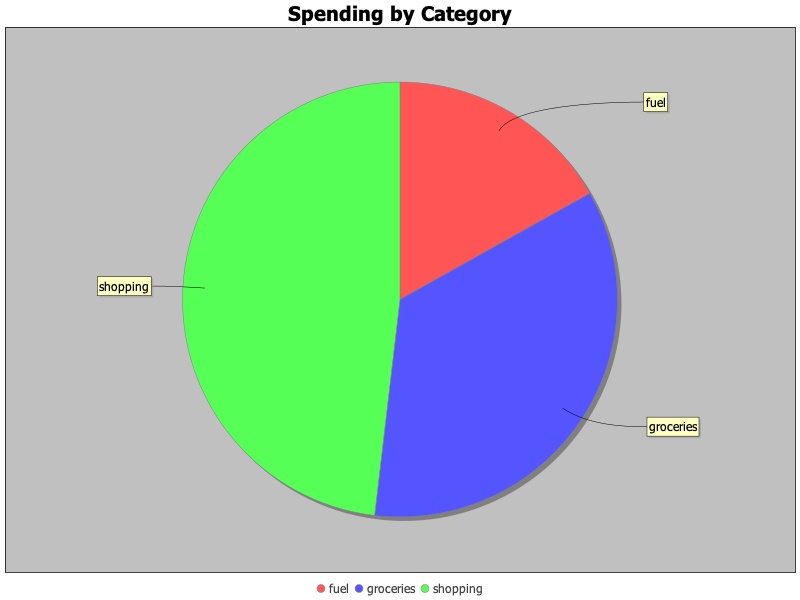
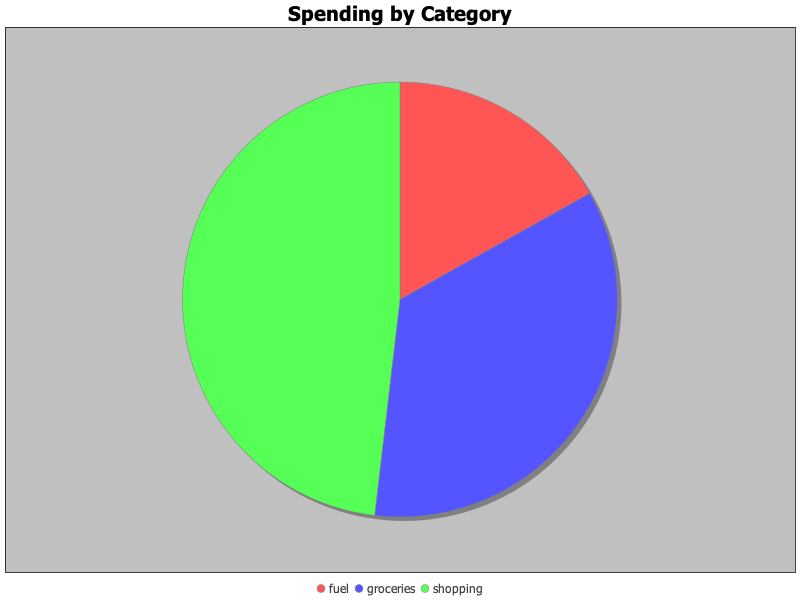
pie and bar chart added

Changed region(s): [[0.7812, 0.69, 0.875, 0.75], [0.125, 0.45, 0.2188, 0.51], [0.7812, 0.15, 0.8438, 0.21]]

diff --git a/backend/src/main/java/com/example/backend/Dashboard.java b/backend/src/main/java/com/example/backend/Dashboard.java
@@ -20,6 +20,7 @@ import org.jfree.chart.JFreeChart;
 import org.jfree.chart.axis.CategoryAxis;
 import org.jfree.chart.axis.ValueAxis;
 import org.jfree.chart.plot.CategoryPlot;
+import org.jfree.chart.plot.PiePlot;
 import org.jfree.chart.plot.PlotOrientation;
 import org.jfree.chart.renderer.category.BarRenderer;
 import org.jfree.chart.renderer.category.StandardBarPainter;
@@ -167,6 +168,14 @@ public class Dashboard {
         }
 
         JFreeChart pieChart = ChartFactory.createPieChart("Spending by Category", dataset);
+        PiePlot plot = (PiePlot) pieChart.getPlot();
+        plot.setLabelGenerator(null);
+
+//
+//        plot.setSectionPaint("Category A", Color.decode("#FF5733"));
+//        plot.setSectionPaint("Category B", Color.decode("#00FF00"));
+//        plot.setSectionPaint("Category C", Color.decode("#0000FF"));
+//        plot.setSectionPaint("Category D", Color.decode("#FFD700"));
 
         BufferedImage bufferedImage = pieChart.createBufferedImage(800, 600);
 

diff --git a/backend/src/main/java/com/example/backend/Expenses.java b/backend/src/main/java/com/example/backend/Expenses.java
@@ -11,6 +11,7 @@ public class Expenses {
     private final String description;
     private final LocalDate date;
 
+
     public Expenses(int id, String category, Double amount, String currency, String description, LocalDate date) {
         this.id = id;
         this.category = category;
